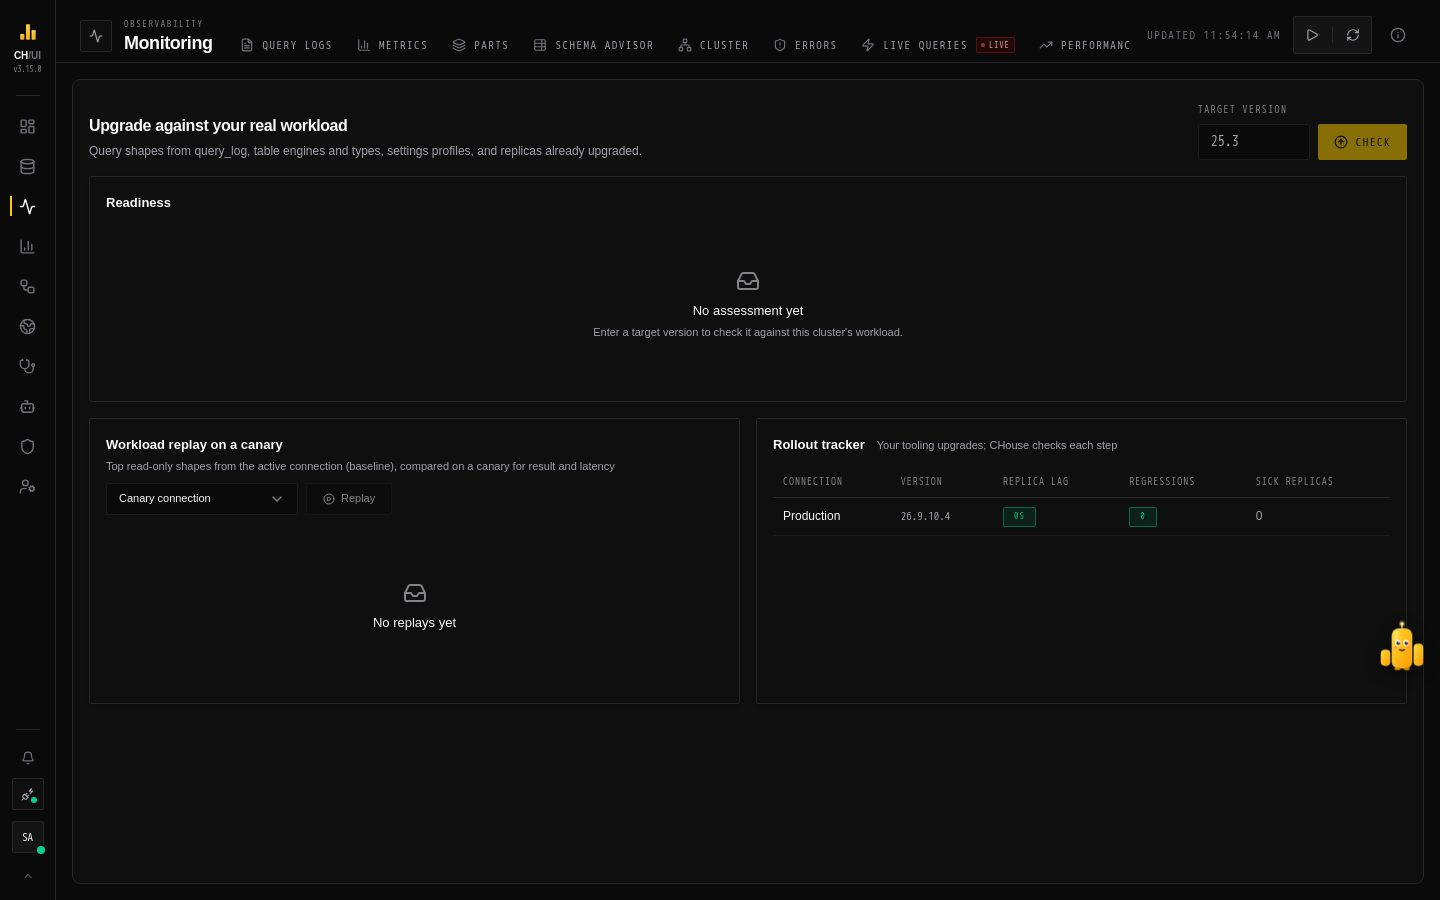
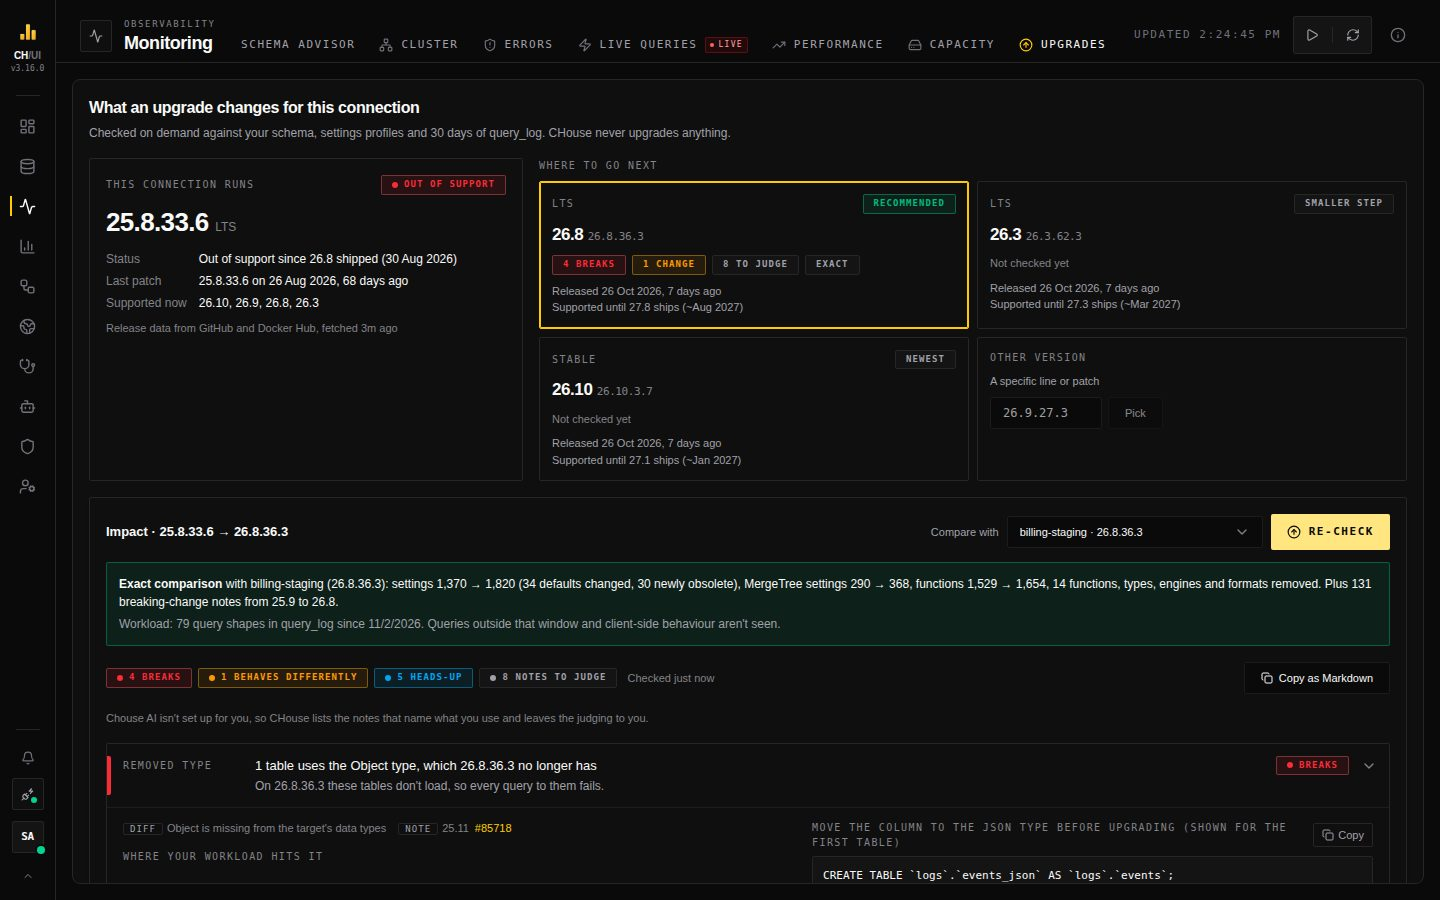
docs: the upgrade check, its guide, 3.17 notes and changelog
Rewrite Monitoring › Upgrades and the Plan an upgrade guide for the new
tab: where you stand, the targets, exact and release-notes checks, what
findings mean, Chouse AI, what a check can't see, the Fleet colour and
the outbound requests. New screenshot from a real 25.8 → 26.8 check.
What's new in 3.17 gains a highlight and two upgrade rows (the setting
and the removed rollout tool); the banner links the check.

diff --git a/docs/portfolio/src/docs-site/manifest.ts b/docs/portfolio/src/docs-site/manifest.ts
@@ -55,7 +55,7 @@ export const DOC_SECTIONS: DocSection[] = [
           { slug: "quick-start", title: "Quick start", description: "Run CHouse UI with Docker Compose in under five minutes — UI on port 5521, ClickHouse on 8123, default admin login." },
           { slug: "first-login", title: "First login", description: "Sign in with the seeded admin account, rotate the password, and take the first-run tour." },
           { slug: "concepts", title: "Core concepts", description: "The six ideas behind everything else: own users and roles, connections, the server proxy, metadata-based observation, approved fixes and governed agents." },
-          { slug: "whats-new", title: `What's new in ${RELEASE.version}`, description: "AI agents sign in to CHouse MCP with OAuth: consent, connected apps and administrator controls — and what to change when you upgrade." },
+          { slug: "whats-new", title: `What's new in ${RELEASE.version}`, description: "AI agents sign in to CHouse MCP with OAuth, and Upgrades checks what a ClickHouse upgrade changes for your workload — and what to change when you upgrade." },
         ],
       },
     ],
@@ -172,7 +172,7 @@ export const DOC_SECTIONS: DocSection[] = [
           { slug: "monitoring-errors", title: "Errors", description: "A searchable viewer over system.errors and the crash log so recurring failures surface without ad-hoc SQL." },
           { slug: "monitoring-performance", title: "Performance", description: "Each query shape against its own 14-day baseline, regressions lined up with the upgrades, DDL and setting changes around them." },
           { slug: "monitoring-capacity", title: "Capacity", description: "Disk forecasts per node, top growth, codec trials on samples and cost by consumer." },
-          { slug: "monitoring-upgrades", title: "Upgrades", description: "Upgrade readiness against your real workload, replay on a canary and a rollout tracker." },
+          { slug: "monitoring-upgrades", title: "Upgrades", description: "Where your ClickHouse version stands, and what an upgrade changes for your workload: exact against a server on the target line, or from the release notes." },
           { slug: "ai-in-tab", title: "Chouse AI in Monitoring", description: "Optimize query-log rows, fix system.errors rows and diagnose part-log rows without leaving the tab — read-only, before→after EXPLAIN." },
         ],
       },
@@ -269,7 +269,7 @@ export const DOC_SECTIONS: DocSection[] = [
           { slug: "guide-build-a-chat-agent", title: "Build a chat agent", description: "A team chat agent with its own data skill and tools, gated by permission, optionally routed to by Auto." },
           { slug: "guide-connect-an-agent", title: "Connect an AI agent", description: "Turn MCP on, give Claude Code a narrow token or let an agent sign in, and watch and limit what it does." },
           { slug: "guide-cli-in-ci", title: "Use the CLI in CI", description: "A scoped token, JSON output and exit codes for reports and data checks in a pipeline." },
-          { slug: "guide-plan-an-upgrade", title: "Plan a ClickHouse upgrade", description: "Readiness against your workload, a canary replay, rollout gates and watching for regressions." },
+          { slug: "guide-plan-an-upgrade", title: "Plan a ClickHouse upgrade", description: "Choose a target, check what it changes for your workload, replay on a canary and watch the rollout." },
           { slug: "guide-least-privilege-role", title: "Give a team least-privilege access", description: "A data access policy and a custom role that let a team read one database and nothing else." },
         ],
       },

diff --git a/docs/portfolio/src/content/release.ts b/docs/portfolio/src/content/release.ts
@@ -30,10 +30,11 @@ export interface Release {
 export const RELEASE: Release = {
   version: "3.17",
   kind: "minor",
-  summary: "AI agents sign in to CHouse MCP with only the URL: you choose what they may do, and they run as you with your own access.",
+  summary: "AI agents sign in to CHouse MCP with only the URL, and Upgrades shows what a ClickHouse upgrade changes for your workload.",
   highlights: [
     { label: "Sign in to MCP", href: "/docs/mcp/#sign-in-with-oauth" },
     { label: "Connected apps", href: "/docs/personal-access-tokens/#connected-apps" },
+    { label: "Check an upgrade", href: "/docs/monitoring-upgrades/#check-an-upgrade" },
     { label: "Connect an agent", href: "/docs/guide-connect-an-agent/" },
   ],
 };

diff --git a/docs/portfolio/src/content/docs/monitoring-upgrades.md b/docs/portfolio/src/content/docs/monitoring-upgrades.md
@@ -6,13 +6,61 @@ screenshot: monitoring-upgrades
 ---
 # Upgrades
 
-**Monitoring › Upgrades** checks a ClickHouse upgrade against *your* workload before you roll it out: the query shapes in `query_log`, your table engines and column types, settings profiles, and the replicas you have already upgraded.
+**Monitoring › Upgrades** shows where the active connection's ClickHouse version stands, which versions are worth moving to, and — when you click **Check** — what an upgrade changes for *your* workload: the functions your queries call, the types your columns use, the engines your tables run on, the settings you rely on. CHouse never upgrades anything.
 
-## Check readiness
+## Where you stand
 
-1. Enter a **Target version** (e.g. `25.3`) and run the check (needs `upgrades:run`).
-2. A rules pack of known behaviour changes is matched against what you actually use — column types, database engines, settings profiles, query settings and functions — and only findings that apply are shown.
-3. The **Verdict** is **Ready**, **Ready with warnings** or **Not ready**, with **Blockers** and **Warnings** listed under **Findings**. *Nothing in your workload is affected* means no rule matched.
+The left card shows the version this connection runs and whether ClickHouse still supports it: the three newest release lines and the two newest LTS lines (months 3 and 8) are supported. It also says when the last patch came out, and when support ended or is expected to end.
+
+**Where to go next** offers:
+
+- **Patch**, first, when a newer patch is out on your own line;
+- the two newest **LTS** lines, the newest one **Recommended**;
+- the newest **Stable** line, which is supported for about three months;
+- **Other version**, for any line or patch you type.
+
+Each card shows the release date of its newest patch, how long it will be supported, and the result of its last check.
+
+Release dates, support and newest patches come from ClickHouse's release list on GitHub and Docker Hub. CHouse only fetches them when [`UPGRADE_CHECK_ENABLED`](/docs/configuration-env/) is on (Helm `observability.upgradeCheckEnabled`); see [Outbound requests](#outbound-requests).
+
+## Check an upgrade
+
+Pick a target, then **Compare with**:
+
+| Choice | What CHouse compares |
+| --- | --- |
+| A connection that already runs the target line | **Exact.** The system tables of both servers: every setting with its default and whether it is obsolete, MergeTree settings, functions, data types, table engines, formats and database engines. |
+| **Release notes only** | The "Backward Incompatible Change" entries of every release between your version and the target. Notes don't list most default changes: in a test of 25.8 → 26.8 they named 16 of 56. Use a connection on the target line when you can. |
+
+The list offers every connection you can open that runs the target line; it doesn't need to be marked as staging. Click **Check** (needs `upgrades:run`). The check reads this server, the comparison server or the notes, and 30 days of `query_log`, and shows each step as it goes. It usually takes a few seconds.
+
+A change becomes a finding only when your workload uses it:
+
+| Finding | When |
+| --- | --- |
+| **Breaks** | A removed type your columns use, a removed function your queries call, a removed table, database engine or format you use, or a query shape that already got slower on a replica that was upgraded |
+| **Behaves differently** | Setting defaults that change, with the ones your workload sets or a release note mentions listed first |
+| **Heads-up** | Obsolete settings your profiles or queries still set (ClickHouse ignores them), changed MergeTree defaults, a pinned `compatibility` |
+
+Open a finding to see where your workload hits it (tables, columns, callers and run counts), its sources (**Diff**, **Note** with a link to the ClickHouse pull request, or **CHouse**), what the release note says, and SQL to fix it or to keep today's behaviour. To keep a version's defaults while you test, use ClickHouse's `compatibility` setting rather than copying old values: a setting's meaning can change with its default. When the `default` profile lives in `users.xml`, the snippet is a `users.d/` file.
+
+Rows naming a table you can't read under your [data access](/docs/data-access-rules/) are hidden and counted.
+
+### Release notes to judge
+
+Notes that name something your workload uses but that CHouse can't decide on its own, such as request headers or values inside INSERT payloads, are listed under **Release notes that name what you use**, with a link to each pull request. Notes that only name very common types and engines are counted, not listed.
+
+### With Chouse AI
+
+When an AI model is set up and you have `ai:optimize`, Chouse AI reads the notes against the names your workload uses right after your check, and turns the ones that matter into findings marked **Chouse AI**. It sees the notes and those names, never rows or tables. A finding is kept only if it cites a note that was sent and names from your workload; anything else is dropped and counted. On an older check, **Read the notes with Chouse AI** runs it on request.
+
+**Copy as Markdown** gives the check as a report for a ticket or change request.
+
+## What a check can't see
+
+- Queries outside the `query_log` window, or any if query logging is off. The check says how much it saw.
+- What clients do: request headers, the values inside INSERT payloads.
+- Hosts behind a load balancer, one at a time.
 
 ## Replay on a canary
 
@@ -29,8 +77,10 @@ screenshot: monitoring-upgrades
 
 **Replay differences** lists every shape that wasn't the same, most serious first, as the text that was actually replayed (the client's `FORMAT` clause is removed).
 
-Set up the canary as an ordinary [connection](/docs/connections/) pointing at a server on the new version, with a copy of the data you care about. The active connection never appears in the canary list, because it is the baseline. To compare from a different server, switch connections first.
+## Fleet
 
-## Track the rollout
+On the [Fleet](/docs/fleet/) page, the version on each card turns red when its line is out of support and amber when a newer patch is out. Hover it for the reason and the last check, and click it to open Upgrades for that connection.
 
-The **Rollout tracker** lists every connection with its version and three gates — replica lag, regressions and replica health — so you can see whether it is safe to move on to the next one. Regressions that start with the upgrade also show on [Performance](/docs/monitoring-performance/).
+## Outbound requests
+
+With `UPGRADE_CHECK_ENABLED` on, CHouse fetches from two fixed addresses only: `raw.githubusercontent.com` (ClickHouse's release list and changelogs) and `hub.docker.com` (the newest `clickhouse/clickhouse-server` tag of each line). Requests use HTTPS, refuse redirects, time out after 10 seconds and are cached for a day. Nothing downloaded is run. With it off, the tab shows the version and the exact comparison only, and the Fleet colour is off.

diff --git a/docs/portfolio/src/content/docs/guide-plan-an-upgrade.md b/docs/portfolio/src/content/docs/guide-plan-an-upgrade.md
@@ -1,29 +1,29 @@
 # Plan a ClickHouse upgrade
 
-Use **Monitoring › Upgrades** to find out whether a new ClickHouse version will break *your* workload before you roll it out, then watch the rollout. You need `upgrades:view`, and `upgrades:run` to run checks and replays.
+Use **Monitoring › Upgrades** to choose a version and find out what it changes for *your* workload before you roll it out. You need `upgrades:view`, and `upgrades:run` to run checks and replays. Release data and notes need [`UPGRADE_CHECK_ENABLED`](/docs/configuration-env/).
 
-## 1. Check readiness
+## 1. Choose a target
 
-1. **Monitoring › Upgrades** → **Target version**, e.g. `25.3` → run the check.
-2. Read the **Verdict**: *Ready*, *Ready with warnings* or *Not ready*.
-3. Work through **Blockers** first, then **Warnings**. Each finding names what in your workload it matched — a column type, an engine, a settings profile, a function or query setting you use.
+Open **Monitoring › Upgrades** on the connection you want to upgrade. The left card says whether its version is still supported. Under **Where to go next**, the newest LTS line is **Recommended**; an older LTS is a smaller step, and the newest stable line is only supported for about three months. When a newer patch is out on your own line, take that first.
 
-*Nothing in your workload is affected* means no known behaviour change matches what you run.
+## 2. Check it against your workload
 
-## 2. Replay on a canary
+1. If you have a server on the target line, add it as a [connection](/docs/connections/) and pick it under **Compare with**. The comparison is then exact. Without one, pick **Release notes only**; notes miss most default changes.
+2. Click **Check**.
+3. Work through **Breaks** first: removed types, functions and engines your workload uses. Then **Behaves differently** (changed defaults) and **Heads-up**.
+4. Read the **Release notes that name what you use**. With Chouse AI set up, it reads them for you and turns the ones that matter into findings.
 
-Findings come from rules; a replay shows what actually happens.
+Each finding has the SQL to fix it or to keep today's behaviour, and links to the ClickHouse pull request. **Copy as Markdown** turns the check into a report for your change request. See [Check an upgrade](/docs/monitoring-upgrades/#check-an-upgrade).
 
-1. Stand up a ClickHouse on the target version with a copy of the data you care about, and add it as a [connection](/docs/connections/).
-2. With the current server as the active connection (the baseline), go to **Workload replay on a canary**, pick the new server as the **Canary connection** and start the replay.
-3. Your top read-only query shapes run on both servers. **Replay differences** lists every query that returns a **different result**, gets **slower**, **errors**, or is **missing on canary** (its table isn't on the canary yet). Queries that no longer run on the baseline itself are **skipped**. See [outcomes](/docs/monitoring-upgrades/#replay-on-a-canary).
+## 3. Replay on a canary
+
+The check shows what changed; a replay shows what actually happens to your queries.
+
+1. With the current server as the active connection (the baseline), go to **Workload replay on a canary**, pick the server on the target version as the **Canary connection** and start the replay.
+2. Your top read-only query shapes run on both servers. **Replay differences** lists every query that returns a **different result**, gets **slower**, **errors**, or is **missing on canary**. See [outcomes](/docs/monitoring-upgrades/#replay-on-a-canary).
 
 Only read-only queries are replayed; nothing is written to either server.
 
-## 3. Roll out
+## 4. Roll out and watch
 
-Upgrade one connection at a time. The **Rollout tracker** shows each connection's version and three gates — replica lag, regressions and replica health. Move on when all three are green.
-
-## 4. Watch afterwards
-
-**Monitoring › Performance** compares each query shape with its own 14-day baseline and lines regressions up with the changes around them — an upgrade shows up on the change timeline, so a slowdown that starts with it is easy to spot. With `query:history:view:all`, compare a shape's `EXPLAIN` on the upgraded connection with a not-yet-upgraded one.
+Upgrade one replica at a time. The [Fleet](/docs/fleet/) page shows each connection's version, and **Monitoring › Performance** compares each query shape with its own 14-day baseline and lines regressions up with the version change, so a slowdown that starts with the upgrade is easy to spot. A regression on an upgraded replica also shows as a finding the next time you check.

diff --git a/docs/portfolio/src/content/docs/whats-new.md b/docs/portfolio/src/content/docs/whats-new.md
@@ -16,6 +16,10 @@
 
 ![Sign-in for agents in AI Governance › MCP](/docs/img/app/agents-mcp-sign-in.jpg "Turn sign-in on, decide whether tokens still work on MCP, approve new agents and see who is connected")
 
+**Check what a ClickHouse upgrade changes for you** — **Monitoring › Upgrades** now shows whether your version is still supported and which versions to move to, then checks a target against your real workload: removed functions, types and engines you use, changed defaults, obsolete settings you still set, and the release notes that name what you use. It is exact when another of your connections already runs the target line, and Chouse AI can read the notes for you. On the Fleet page, a version that is out of support or behind on patches is coloured and links to the check. → [Upgrades](/docs/monitoring-upgrades/), [Plan a ClickHouse upgrade](/docs/guide-plan-an-upgrade/)
+
+![Monitoring › Upgrades after an exact check](/docs/img/app/monitoring-upgrades.jpg "A check of 25.8 against 26.8: what breaks, what changes, and the notes to read")
+
 ## Upgrading from 3.16
 
 Migrations run on start; nothing to run by hand. Check these:
@@ -24,5 +28,7 @@ Migrations run on start; nothing to run by hand. Check these:
 | --- | --- |
 | Migration 1.75.0 adds tables for agents, sign-ins and tokens, and marks every existing personal access token as one | Nothing to do: tokens keep working |
 | Sign-in for agents is off | To use it, set an https public address (**AI Governance › MCP**, or `PUBLIC_BASE_URL`, Helm `publicBaseUrl`) and turn on **Sign-in for agents**. If your proxy forwards only some paths, also forward `/oauth/` and `/.well-known/oauth-` to CHouse |
+| Upgrades fetches release data and notes only when allowed | Set `UPGRADE_CHECK_ENABLED=true` (Helm `observability.upgradeCheckEnabled: true`) and allow egress to `raw.githubusercontent.com` and `hub.docker.com`. Without it, Upgrades compares only with a connection on the target line |
+| The upgrade rollout tracker is gone | Versions are on the Fleet page. Agents using the MCP tool `get_upgrade_rollout` should use `get_upgrade_status`; `chouse upgrades rollout` now runs `chouse upgrades fleet` |
 
 The full list of changes is in the [changelog](https://github.com/daun-gatal/chouse-ui/blob/main/CHANGELOG.md).

diff --git a/changelogs/unreleased/000-upgrade-check.md b/changelogs/unreleased/000-upgrade-check.md
@@ -1,0 +1,10 @@
+type: minor
+
+### Added
+- **Upgrade check** — **Monitoring › Upgrades** shows whether the connection's ClickHouse version is still supported, when its last patch came out, and the versions worth moving to (the newest LTS recommended, a same-line patch first when one is out). **Check** compares the target with your real workload: exactly against another of your connections on the target line (settings and their defaults, obsolete settings, functions, types, engines and formats), or from the breaking-change notes between the two versions. Only changes your schema, settings profiles and 30 days of `query_log` use become findings, each with its sources, evidence, callers and the SQL to fix it or keep today's defaults; notes that name what you use are listed to judge, and **Copy as Markdown** gives a report. Release data and notes come from GitHub and Docker Hub when `UPGRADE_CHECK_ENABLED` (Helm `observability.upgradeCheckEnabled`) is on (ADR 0029)
+- **Chouse AI reads the release notes** — when a model is set up, it turns the notes that matter for your workload into findings; each must cite a note and names from your workload, or it is dropped
+- **Fleet version colour** — a card's version turns red when its line is out of support and amber when a newer patch is out, with the reason on hover and a link to Upgrades
+- **MCP and assistant tool `get_upgrade_status`**; `run_upgrade_assessment` takes a connection to compare with
+
+### Removed
+- **Upgrade rollout tracker**, the six-rule readiness pack and its verdict; the MCP and assistant tool `get_upgrade_rollout` and `GET /api/upgrades/rollout` and `/rules`
